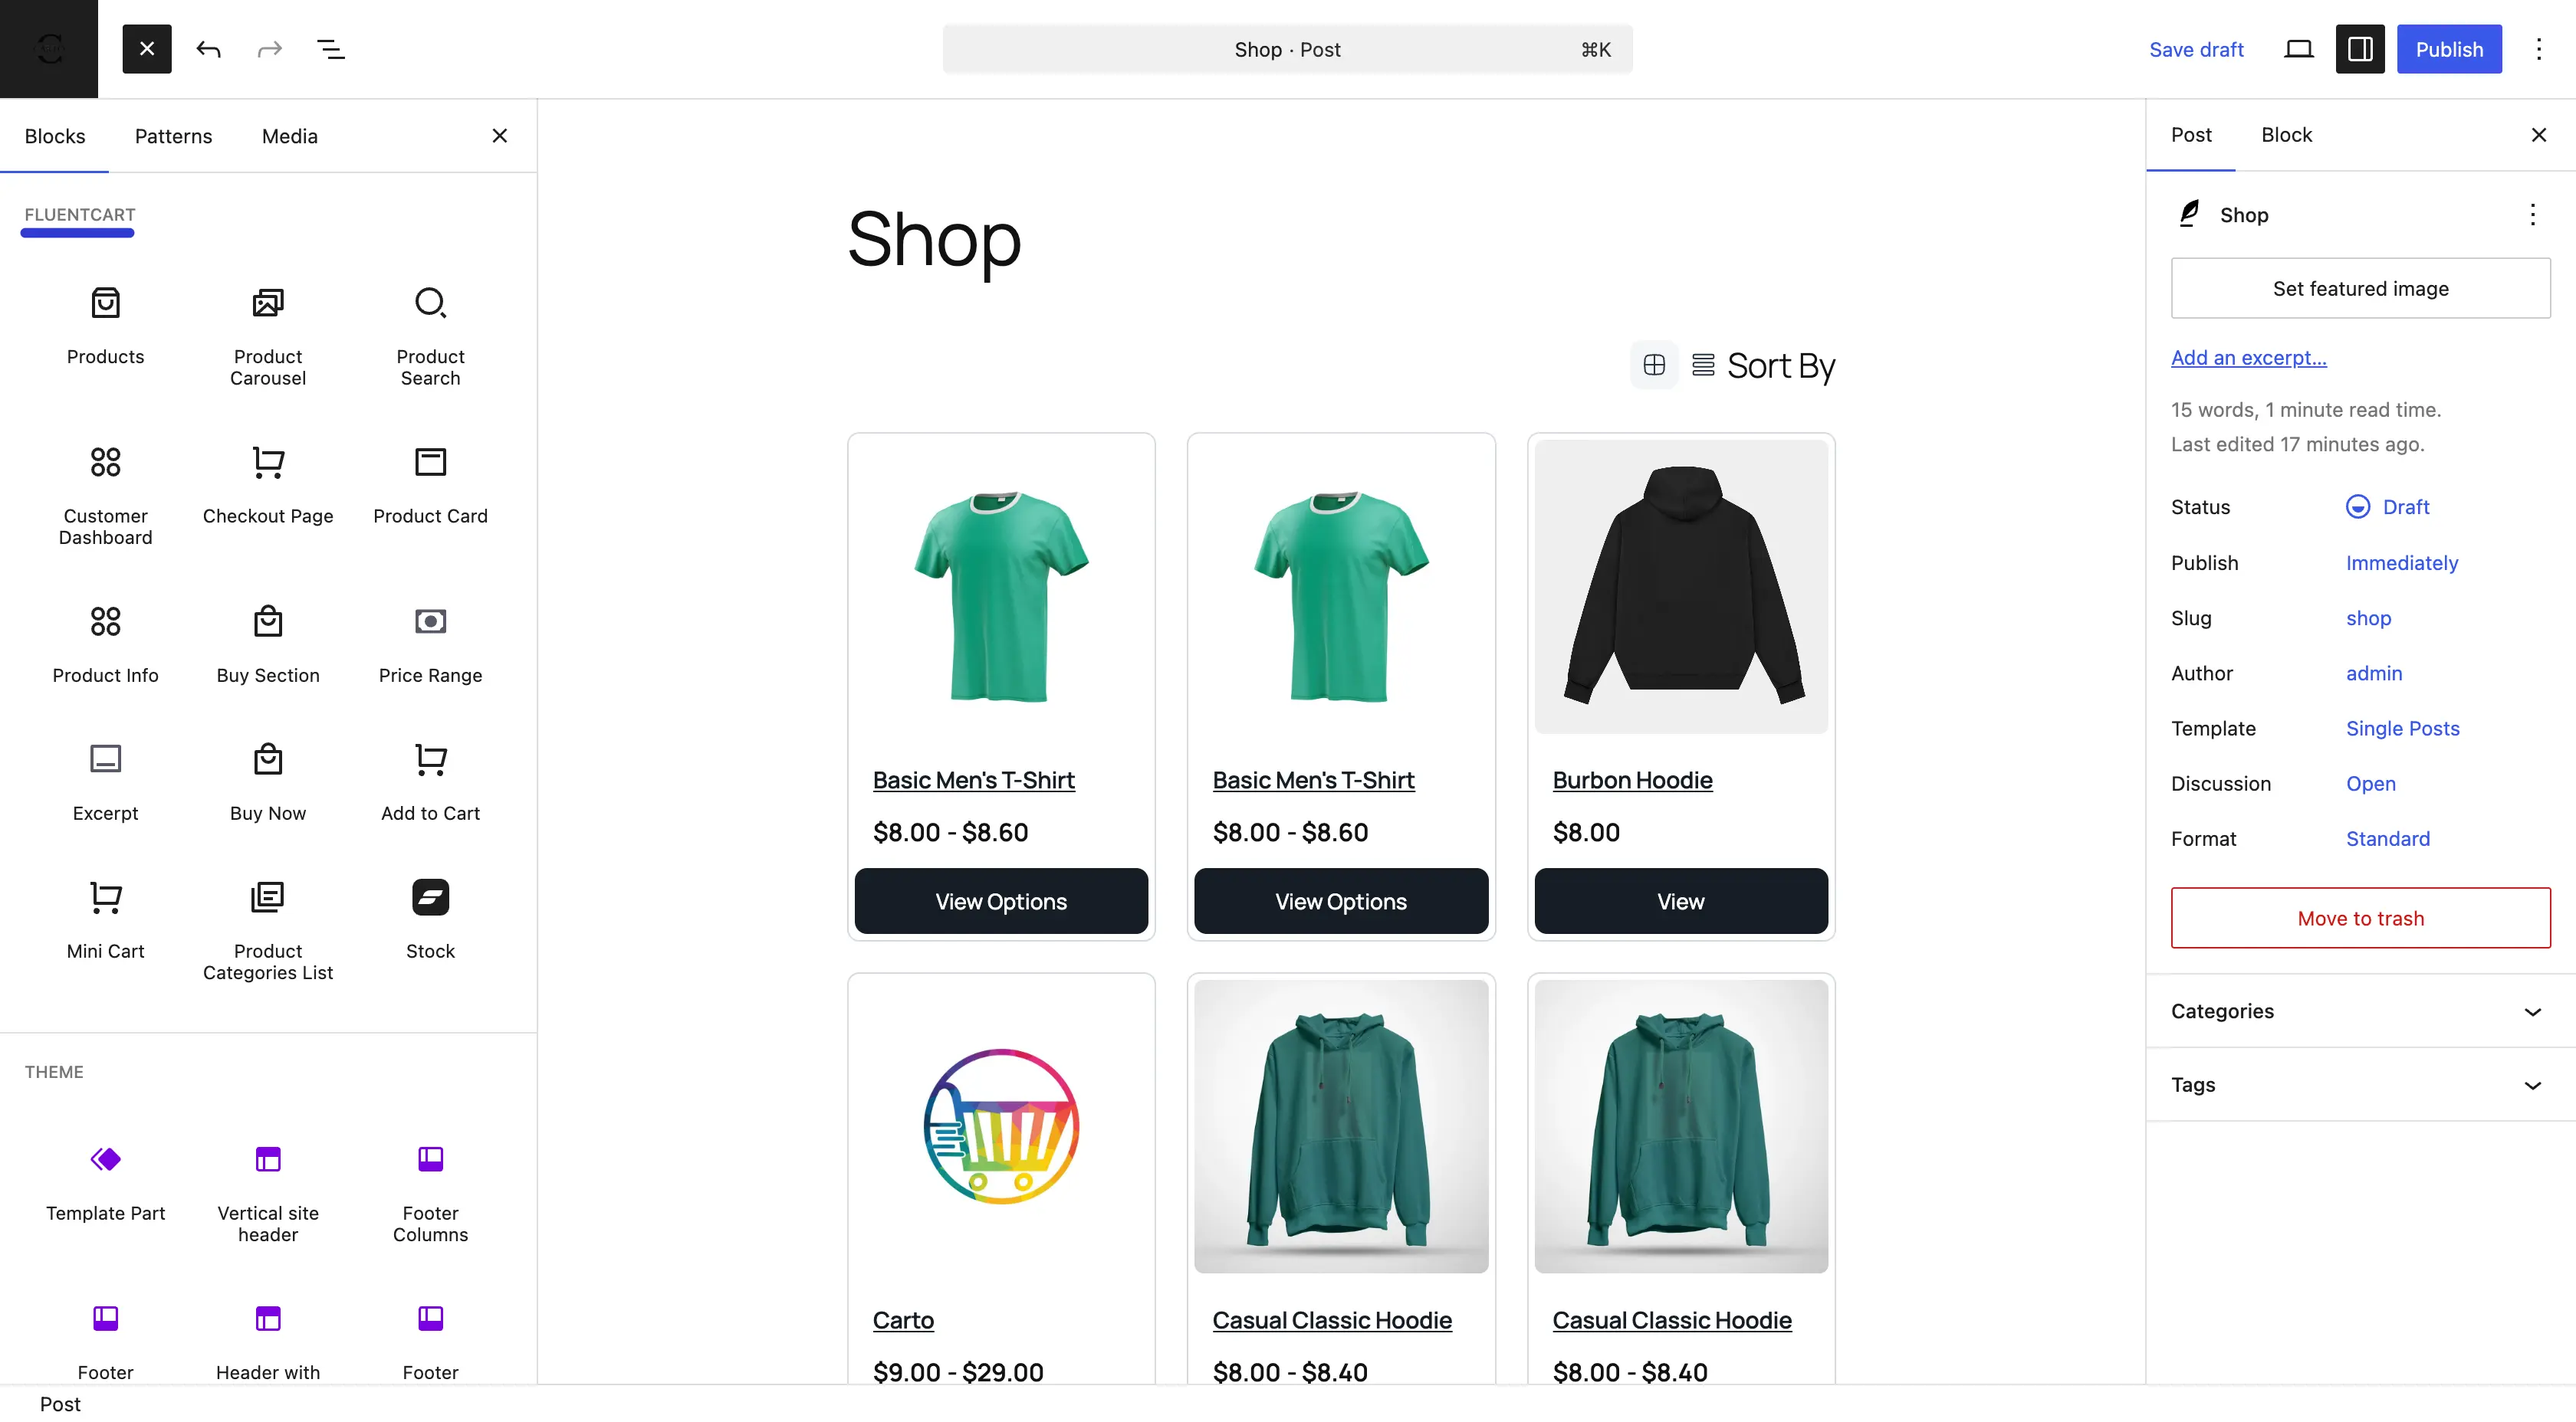
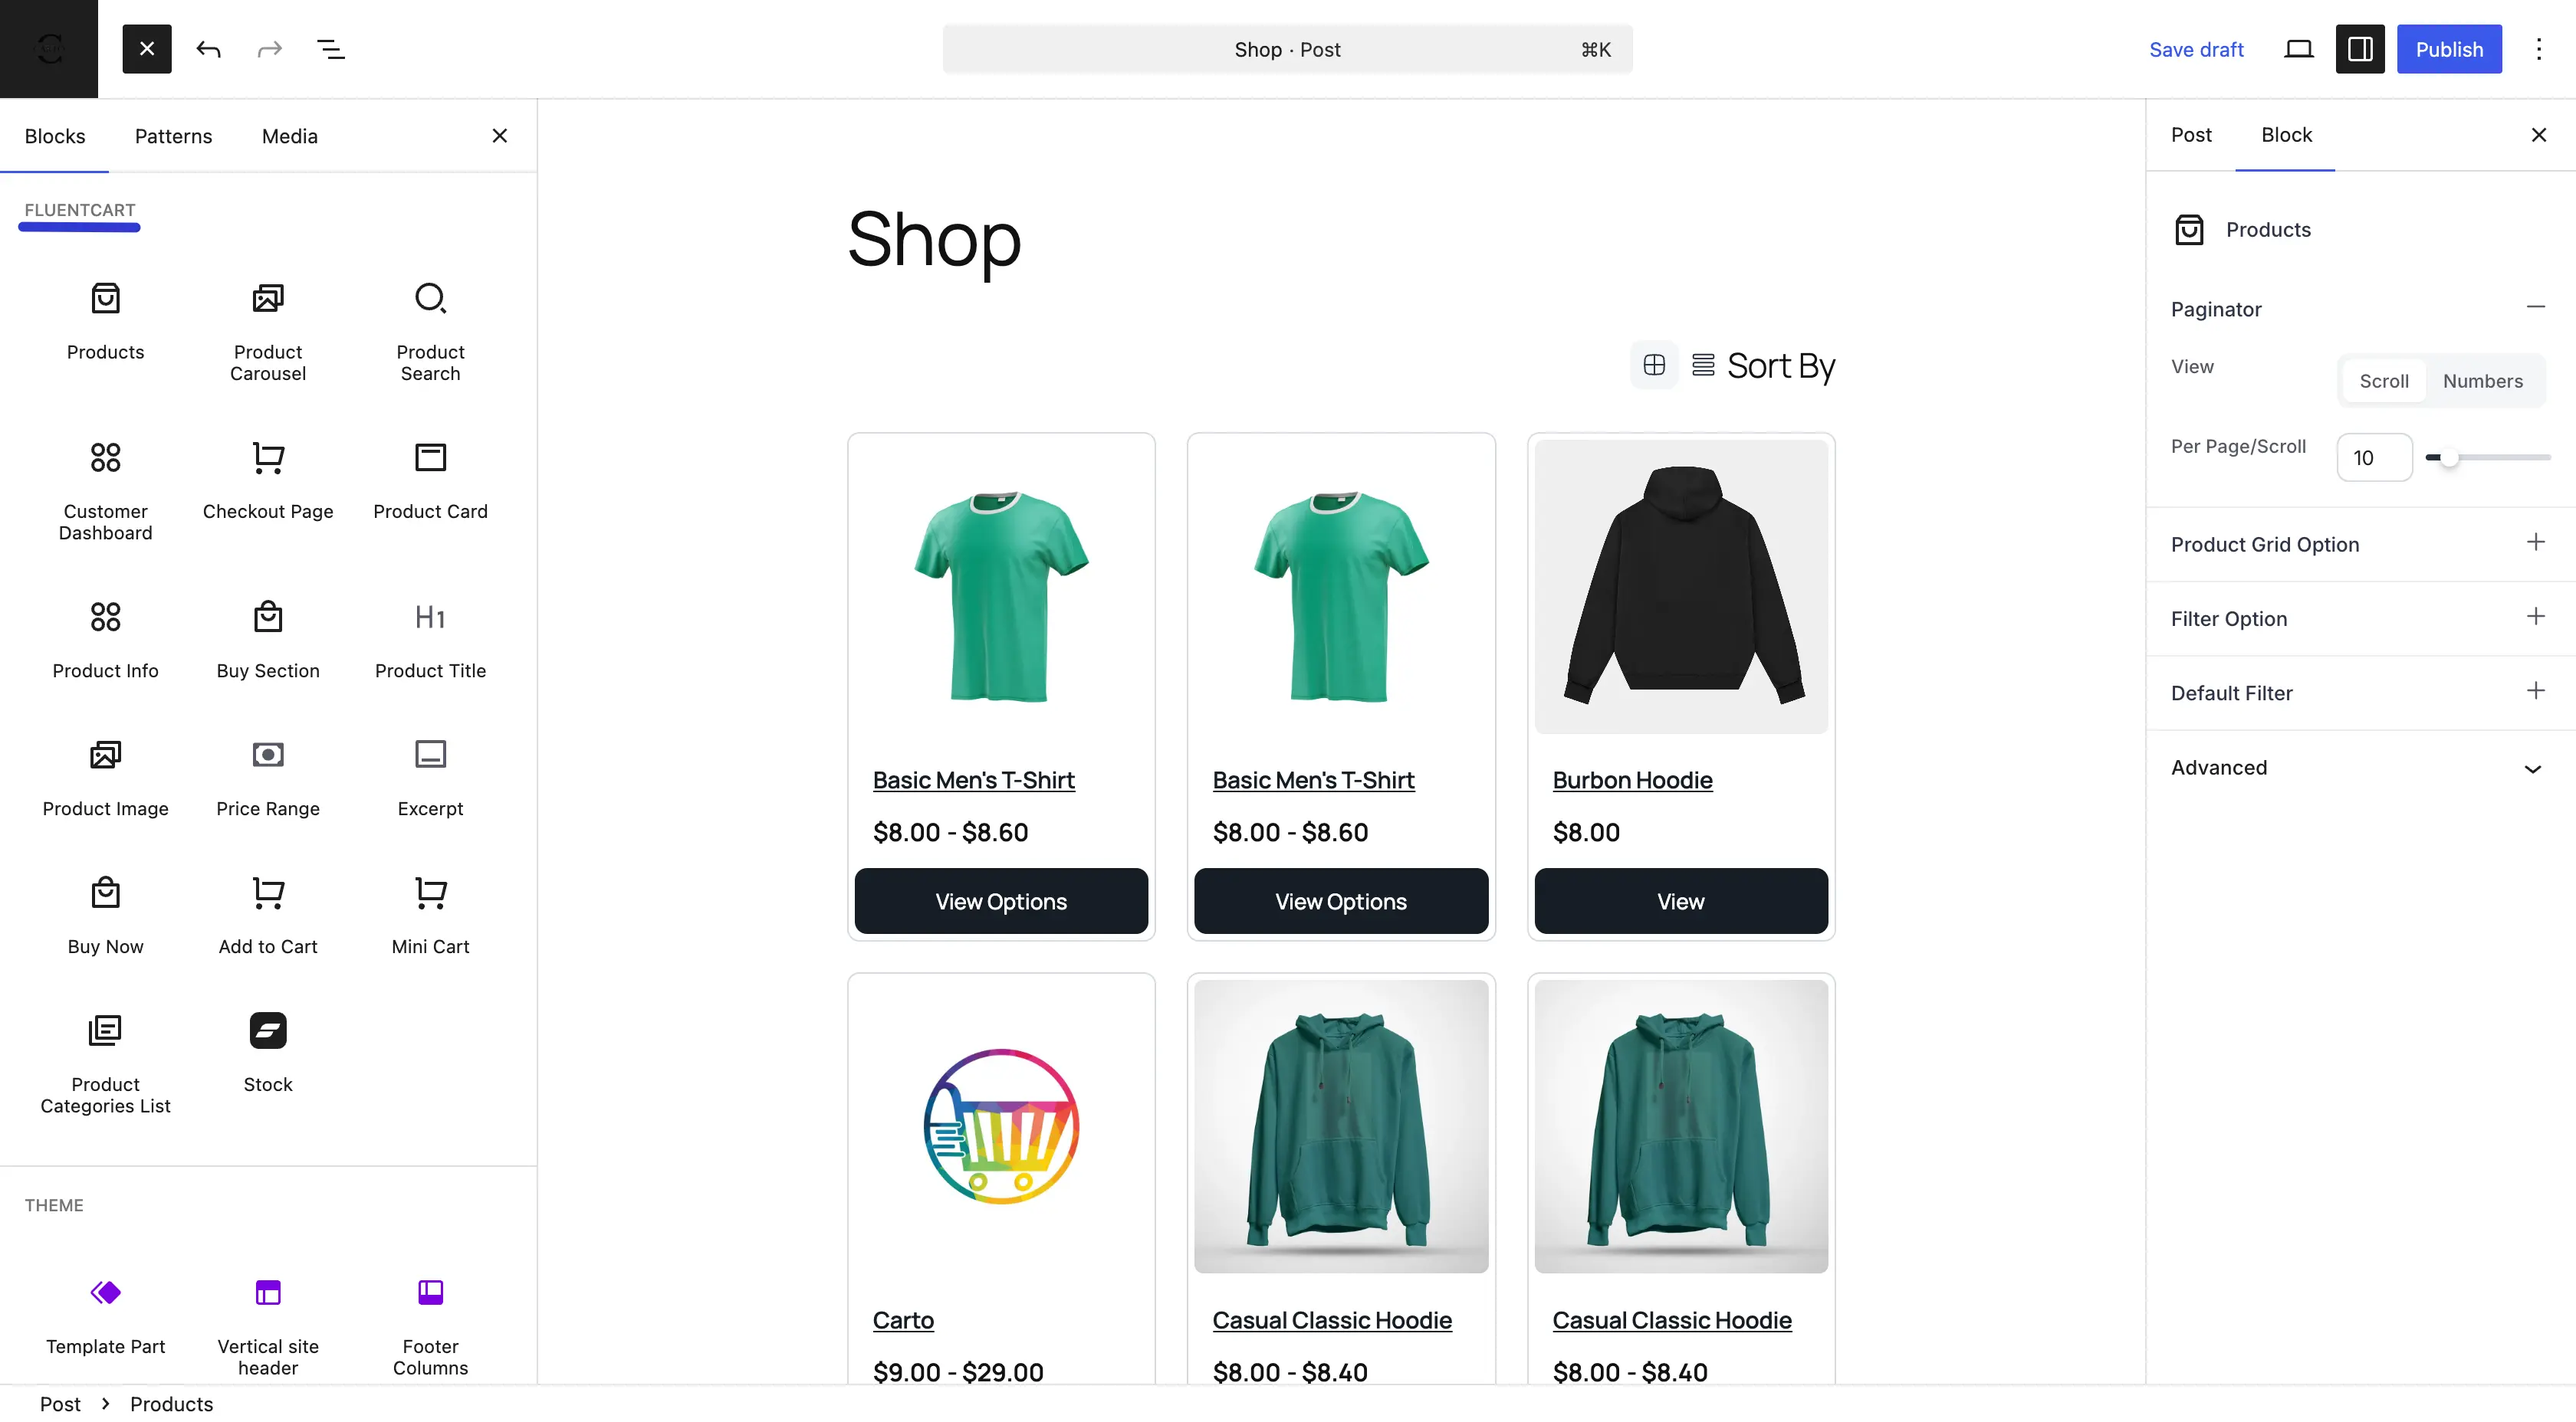
block doc updated

diff --git a/guide/customization-and-themes/using-fluentcart-blocks-&-templates.md b/guide/customization-and-themes/using-fluentcart-blocks-&-templates.md
@@ -24,6 +24,8 @@ FluentCart provides a comprehensive suite of blocks designed to help you build e
 
 These blocks form the backbone of your store, handling how users browse products and manage their accounts.
 
+* **Product Title:** Displays the name of your product. This is a standalone block, allowing you to place and style the title independently in your custom designs.
+* **Product Image:** Renders the featured image of your product. It provides a simple way to place the main product visual anywhere in your layout.
 * **Products:** The primary block for your shop. It displays a dynamic grid of products that you can filter by category, tag, or status.
 * **Product Carousel:** A dynamic slider block that showcases your products in a rotating carousel. Perfect for "Featured" sections or "New Arrivals" on your homepage.
 * **Product Search:** Adds a specialized search bar that searches exclusively within your FluentCart product catalog.
